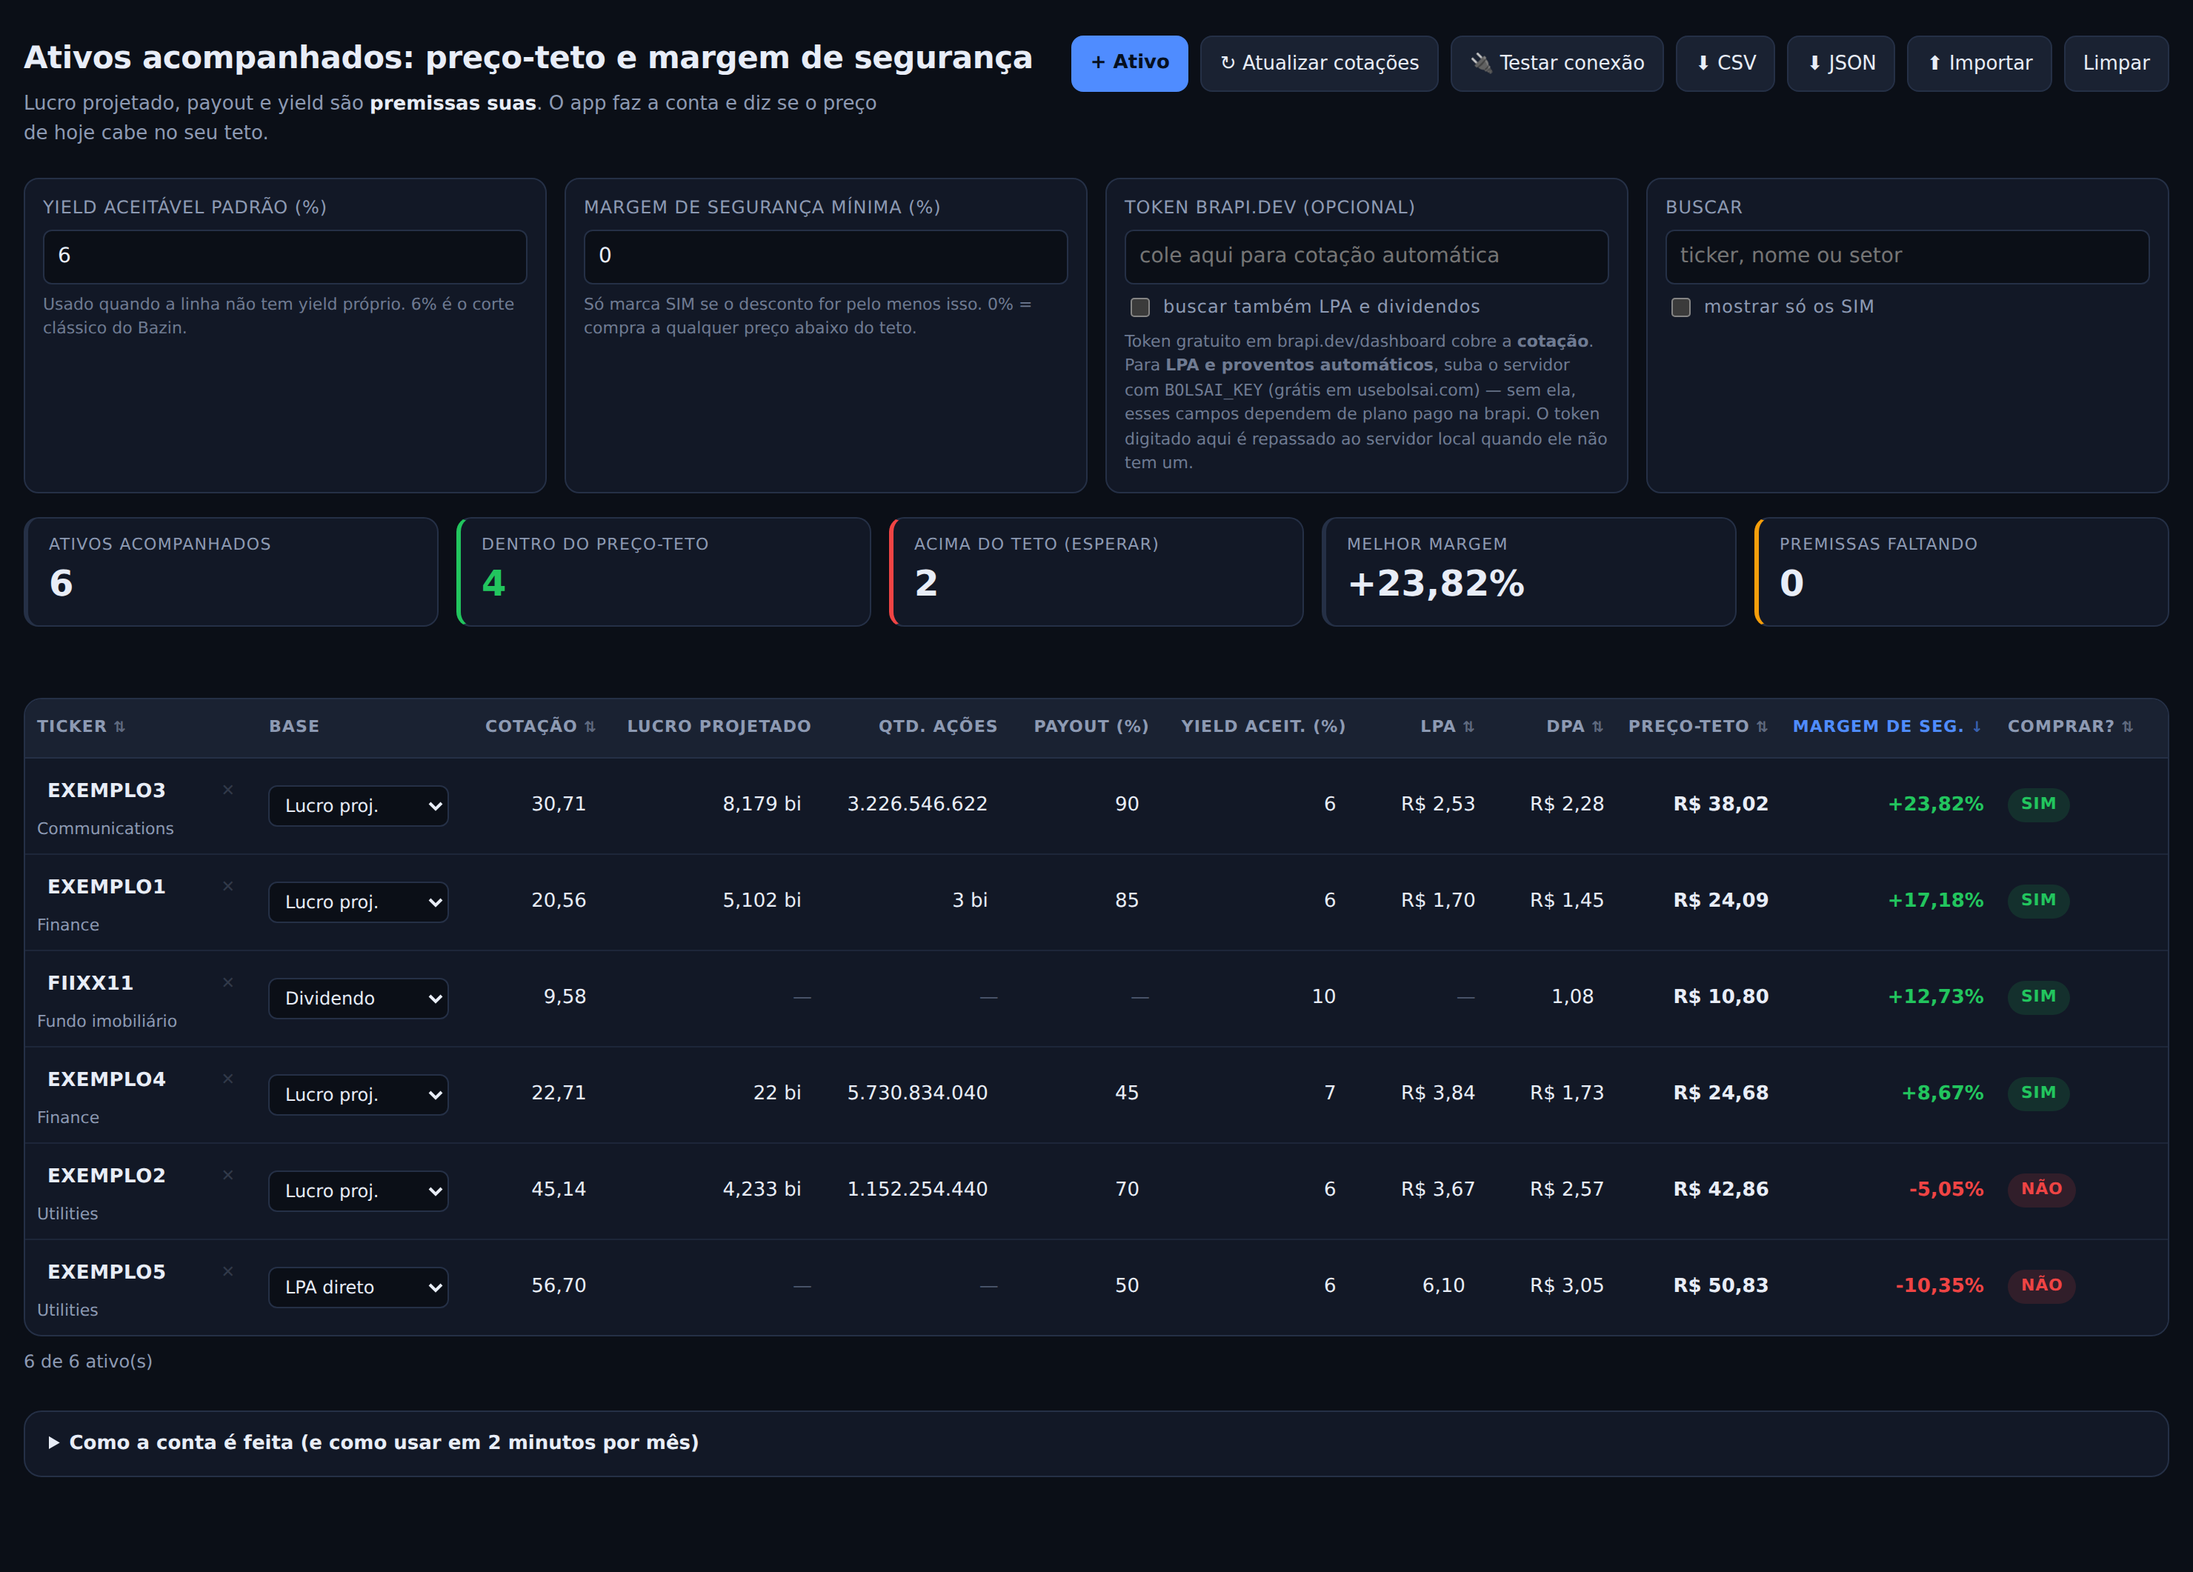
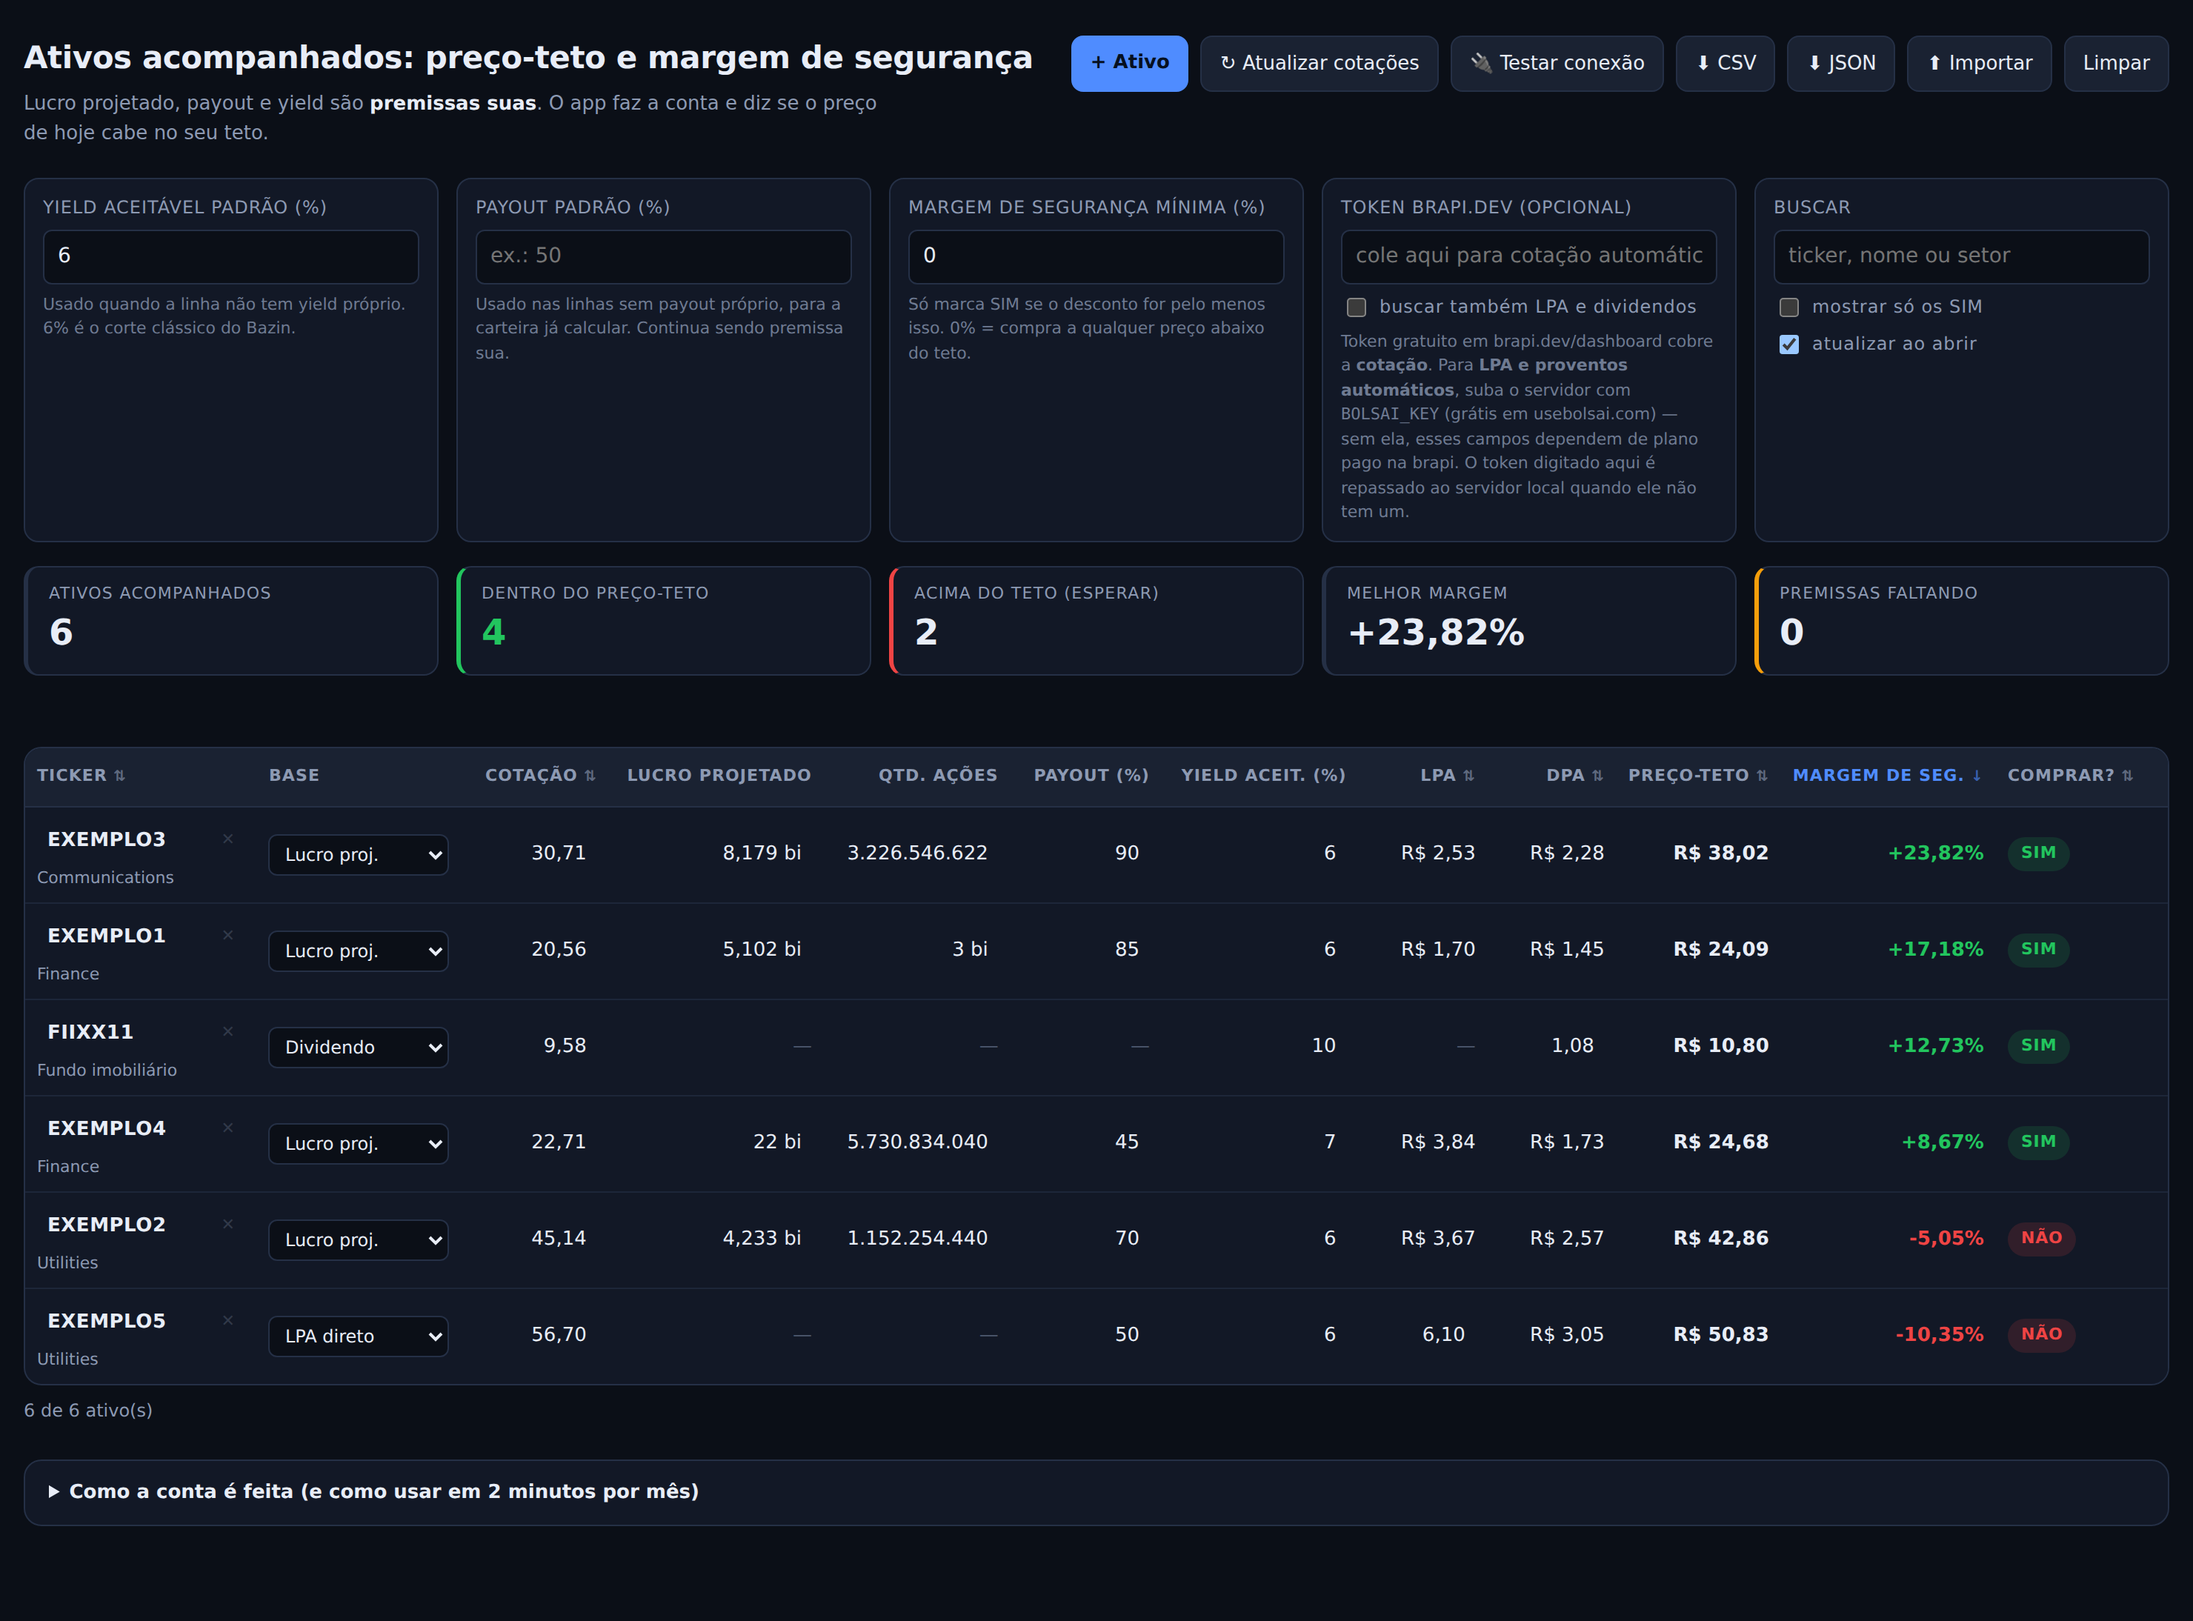
Atualiza ao abrir e fecha a conta com payout padrão
Abrir a página já dispara a busca de cotações quando há servidor local ou token,
com caixa "atualizar ao abrir" para desligar. A página publicada não tenta, por
não ter nem servidor nem token.

O campo "payout padrão" passa a valer nas linhas sem payout próprio, como já
acontecia com o yield aceitável. Com preço e LPA vindos da API, uma única
premissa fecha a conta de toda a carteira.

O diagnóstico do usuário mostrou que a brapi devolve earningsPerShare na resposta
comum, sem módulo pago — o app já lia esse campo, mas o painel não, e por isso
parecia que o LPA só vinha pelo servidor. Agora:

- a sonda "LPA na raiz (sem módulos)" testa isso num ticker da carteira e a
  conclusão avisa quando o LPA vem de graça (dispensando bolsai), com a mesma
  ressalva de ticker liberado que vale para os fundamentos
- o painel lê LPA de defaultKeyStatistics OU da raiz, igual a normalizar()
- a sonda v2 aceita outra chave de coleção (a rota respondia e parecia vazia) e
  Number(null) não vira mais "LPA 0,00"
- 404 numa sonda v2 é reportado como rota inexistente, não ticker inválido

Testes: portas efêmeras e verificação de saúde em test/ajuda.mjs — porta fixa
conflitava com processo de execução anterior e o teste seguia contra servidor
morto, falhando longe da causa.

Claude-Session: https://claude.ai/code/session_017AhskhMrFGTcoZYypaDFch

diff --git a/assets/quotes.js b/assets/quotes.js
@@ -146,12 +146,23 @@
             const motivos = Object.values(corpo?.erros || {});
             if (!info && motivos.length) etapa.detalhe = motivos[0];
           } else {
-            const primeiro = corpo && Array.isArray(corpo.results) ? corpo.results[0] : null;
-            etapa.preco = primeiro ? Number(primeiro.regularMarketPrice) || null : null;
-            etapa.lpa = primeiro?.defaultKeyStatistics?.trailingEps ?? null;
+            // A v1 devolve {results}, a v2 pode usar outra chave: pega o primeiro array.
+            const lista = Array.isArray(corpo?.results) ? corpo.results
+              : Array.isArray(corpo) ? corpo
+              : Object.values(corpo || {}).find(Array.isArray) || [];
+            const primeiro = lista[0] || null;
+            etapa.preco = primeiro ? Number(primeiro.regularMarketPrice ?? primeiro.close ?? primeiro.price) || null : null;
+            // Mesma leitura de normalizar(): earningsPerShare vem na raiz, sem módulo pago.
+            const bruto = primeiro?.defaultKeyStatistics?.trailingEps ?? primeiro?.earningsPerShare;
+            // Atenção: Number(null) é 0, o que mostraria "LPA 0,00" onde não há LPA.
+            const lpa = bruto === null || bruto === undefined ? null : Number(bruto);
+            etapa.lpa = Number.isFinite(lpa) ? lpa : null;
+            if (primeiro) etapa.campos = Object.keys(primeiro).length;
           }
         } else {
-          etapa.detalhe = mensagemDeErro(resposta.status);
+          etapa.detalhe = chave.startsWith('v2-') && resposta.status === 404
+            ? 'Essa rota não existe nessa versão da API.'
+            : mensagemDeErro(resposta.status);
         }
         etapas.push(etapa);
       } catch (erro) {
@@ -195,10 +206,16 @@
       );
       etapas[etapas.length - 1].tickerLivre = LIVRES.includes(ticker);
 
+      // A v1 devolve earningsPerShare na raiz em alguns tickers, sem módulo pago:
+      // se vier para um ticker seu, o LPA é automático sem bolsai e sem plano pago.
+      await executar(`LPA na raiz (sem módulos) em ${ticker}`, 'lpa-raiz', `${BASE}${ticker}?token=${seguro}`);
+      etapas[etapas.length - 1].tickerLivre = LIVRES.includes(ticker);
+
       // Sondagem da API v2: se ela servir fundamentos no seu plano, o app pode migrar.
       const v2 = paraV2(base);
       await executar(`v2: cotação de ${ticker}`, 'v2-quote', `${v2}/quote?symbols=${ticker}&token=${seguro}`);
       await executar(`v2: fundamentos de ${ticker}`, 'v2-fundamentos', `${v2}/fundamentals?symbols=${ticker}&token=${seguro}`);
+      await executar(`v2: perfil de ${ticker}`, 'v2-profile', `${v2}/profile?symbols=${ticker}&token=${seguro}`);
     }
     return etapas;
   }
@@ -255,6 +272,15 @@
       const via = url?.ok ? 'na URL' : 'no header Authorization';
       const fundamentos = achar('fundamentos');
       const v2Fund = achar('v2-fundamentos');
+      const raiz = achar('lpa-raiz');
+      // Em PETR4/MGLU3/VALE3/ITUB4 tudo é liberado: só vale como prova fora deles.
+      if (raiz?.ok && raiz.lpa !== null && !raiz.tickerLivre) {
+        const emQual = raiz.rotulo?.split(' em ')[1] || 'seu ticker';
+        return `Rede e token ok (token aceito ${via}). E a melhor notícia: a brapi devolveu o LPA de ${emQual} na resposta comum (LPA ${raiz.lpa}), sem módulo pago — o app preenche o LPA sozinho, sem bolsai e sem plano pago.`;
+      }
+      if (raiz?.ok && raiz.lpa !== null && raiz.tickerLivre) {
+        return `Rede e token ok (token aceito ${via}). O LPA veio na resposta comum, mas só em ${raiz.rotulo?.split(' em ')[1] || 'PETR4'}, que a brapi libera de graça — acrescente um ticker seu à lista e teste de novo para saber se vale para os demais.`;
+      }
       // A v2 pode servir no plano em que a v1 recusa: essa informação vem primeiro.
       if (fundamentos && !fundamentos.ok && v2Fund?.ok) {
         return `Rede e token ok (token aceito ${via}). Os fundamentos da API v1 foram recusados (HTTP ${fundamentos.status}), mas a rota v2 respondeu — vale migrar o app para /api/v2/stocks/fundamentals. Me mande esta linha do diagnóstico.`;

diff --git a/assets/app.js b/assets/app.js
@@ -142,7 +142,7 @@
     const qtd = modo === 'lucro' ? inputCelula(ativo, 'quantidadeAcoes', 'placeholder="ex.: 3 bi"') : vazio;
     const payout = modo === 'dividendo'
       ? `<span data-saida="payoutImplicito">${m.payoutImplicito !== null ? `${fmt2.format(m.payoutImplicito)}%` : vazio}</span>`
-      : inputCelula(ativo, 'payout', 'placeholder="ex.: 70"');
+      : inputCelula(ativo, 'payout', `placeholder="${escapar(parseNumero(estado.config.payoutPadrao) ?? 'ex.: 70')}"`);
     const lpa = modo === 'lpa'
       ? inputCelula(ativo, 'lpaInformado', 'placeholder="ex.: 3,67"')
       : `<span data-saida="lpa">${fmtMoeda(m.lpa)}</span>`;
@@ -467,11 +467,13 @@
 
   function sincronizarConfig() {
     el('#yield-padrao').value = estado.config.yieldPadrao ?? '';
+    el('#payout-padrao').value = estado.config.payoutPadrao ?? '';
     el('#margem-minima').value = estado.config.margemMinima ?? '';
     el('#token').value = estado.config.token ?? '';
     el('#busca').value = estado.config.busca ?? '';
     el('#somente-comprar').checked = !!estado.config.somenteComprar;
     el('#fundamentos').checked = !!estado.config.fundamentos;
+    el('#auto-atualizar').checked = estado.config.autoAtualizar !== false;
   }
 
   function ligarEventos() {
@@ -547,9 +549,14 @@
       status('Carteira restaurada para a lista inicial.', '');
     });
 
-    ['yield-padrao', 'margem-minima'].forEach((id) => {
+    const camposDeConfig = {
+      'yield-padrao': 'yieldPadrao',
+      'payout-padrao': 'payoutPadrao',
+      'margem-minima': 'margemMinima',
+    };
+    Object.entries(camposDeConfig).forEach(([id, chave]) => {
       el(`#${id}`).addEventListener('input', (evento) => {
-        estado.config[id === 'yield-padrao' ? 'yieldPadrao' : 'margemMinima'] = evento.target.value;
+        estado.config[chave] = evento.target.value;
         render();
       });
     });
@@ -569,9 +576,28 @@
       estado.config.fundamentos = evento.target.checked;
       salvar();
     });
+    el('#auto-atualizar').addEventListener('change', (evento) => {
+      estado.config.autoAtualizar = evento.target.checked;
+      salvar();
+    });
+  }
+
+  /**
+   * Atualiza sozinho ao abrir, para a tabela já aparecer com preço de hoje.
+   * Só roda quando há por onde consultar (servidor local ou token) e quando há
+   * ticker válido — assim a página publicada não tenta e falha a cada abertura.
+   */
+  async function atualizarAoAbrir() {
+    if (estado.config.autoAtualizar === false) return;
+    const temTicker = estado.ativos.some((a) => TICKER_B3.test(String(a.ticker || '').trim().toUpperCase()));
+    if (!temTicker) return;
+    const local = await servidor();
+    if (!local.disponivel && !String(estado.config.token || '').trim()) return;
+    await atualizarCotacoes();
   }
 
   sincronizarConfig();
   ligarEventos();
   render();
+  atualizarAoAbrir();
 })();

diff --git a/assets/calc.js b/assets/calc.js
@@ -78,11 +78,12 @@
   /**
    * Avalia um ativo e devolve as métricas derivadas.
    * @param {object} ativo   Premissas do ativo (ver seed.js para o formato).
-   * @param {object} config  { yieldPadrao, margemMinima } em pontos percentuais.
+   * @param {object} config  { yieldPadrao, payoutPadrao, margemMinima } em pontos percentuais.
    */
   function avaliarAtivo(ativo, config) {
     const cfg = config || {};
     const yieldPadrao = parseNumero(cfg.yieldPadrao);
+    const payoutPadrao = parseNumero(cfg.payoutPadrao);
     const margemMinima = parseNumero(cfg.margemMinima) || 0;
 
     const cotacao = positivo(parseNumero(ativo.cotacao));
@@ -91,7 +92,9 @@
 
     const lucro = parseNumero(ativo.lucroProjetado);
     const quantidade = positivo(parseNumero(ativo.quantidadeAcoes));
-    const payout = parseNumero(ativo.payout);
+    // Payout da linha, ou o padrão da carteira: é premissa sua nos dois casos.
+    const payoutDaLinha = parseNumero(ativo.payout);
+    const payout = payoutDaLinha !== null ? payoutDaLinha : payoutPadrao;
 
     let lpa = modo === 'lpa'
       ? parseNumero(ativo.lpaInformado)
@@ -144,6 +147,8 @@
       margem,
       precoAlvo,
       yieldAtual,
+      payout,
+      payoutDoPadrao: payoutDaLinha === null && payout !== null,
       payoutImplicito,
       veredito,
       faltando,

diff --git a/index.html b/index.html
@@ -31,6 +31,10 @@
     <input id="yield-padrao" inputmode="decimal" placeholder="6">
     <small>Usado quando a linha não tem yield próprio. 6% é o corte clássico do Bazin.</small>
   </label>
+  <label>Payout padrão (%)
+    <input id="payout-padrao" inputmode="decimal" placeholder="ex.: 50">
+    <small>Usado nas linhas sem payout próprio, para a carteira já calcular. Continua sendo premissa sua.</small>
+  </label>
   <label>Margem de segurança mínima (%)
     <input id="margem-minima" inputmode="decimal" placeholder="0">
     <small>Só marca SIM se o desconto for pelo menos isso. 0% = compra a qualquer preço abaixo do teto.</small>
@@ -43,6 +47,7 @@
   <label class="busca">Buscar
     <input id="busca" placeholder="ticker, nome ou setor">
     <span class="check"><input type="checkbox" id="somente-comprar"> mostrar só os SIM</span>
+    <span class="check"><input type="checkbox" id="auto-atualizar"> atualizar ao abrir</span>
   </label>
 </section>
 

diff --git a/assets/seed.js b/assets/seed.js
@@ -10,6 +10,8 @@
     token: '',
     // Fundamentos (LPA e dividendos) são de plano pago na brapi; desligado por padrão.
     fundamentos: false,
+    // Busca cotações sozinho ao abrir, quando há servidor local ou token.
+    autoAtualizar: true,
     ordenarPor: 'margem',
     ordemDecrescente: true,
     somenteComprar: false,

diff --git a/README.md b/README.md
@@ -45,15 +45,27 @@ Enquanto faltar premissa, o selo da última coluna diz **qual** campo preencher
 mostra a versão servida (`código <sha> · <branch>`), que é a forma rápida de
 confirmar se o `git pull` pegou.
 
+### Abrir já é atualizar
+
+Com o app servido por `npm start` (ou com token no campo), abrir a página dispara a
+atualização sozinha — a tabela aparece com o preço de hoje, sem clique. A caixa
+**atualizar ao abrir** desliga esse comportamento, e a página publicada nunca tenta
+(sem servidor e sem token, não há por onde consultar).
+
+Para a carteira fechar a conta de uma vez, use o **payout padrão**: ele vale nas
+linhas sem payout próprio, do mesmo jeito que o yield aceitável padrão. Preço e LPA
+vêm da API, o payout vem desse campo, e todas as linhas passam a ter preço-teto e
+veredito. Continua sendo premissa sua — só deixou de ser uma premissa por linha.
+
 ### O que a atualização automática traz — e o que não traz
 
 | Campo | Vem sozinho? |
 | --- | --- |
 | Cotação | ✅ sempre |
 | Nome e setor | ✅ sempre |
-| LPA | ✅ com `BOLSAI_KEY` e a caixa marcada (senão exige plano pago na brapi) |
+| LPA | ✅ quando a brapi devolve `earningsPerShare` na resposta comum (acontece sem plano pago); senão, com `BOLSAI_KEY` |
 | DPA de 12 meses | ✅ mesma condição |
-| Payout | ❌ nunca — é premissa sua |
+| Payout | ❌ nunca vem de API — mas o **payout padrão** preenche todas as linhas de uma vez |
 | Lucro projetado e nº de ações | ❌ nunca — premissa sua |
 
 Ou seja: depois de atualizar as cotações, as linhas continuam em `falta payout`
@@ -237,8 +249,8 @@ Digite como for mais natural — o app entende formato brasileiro e atalhos de e
 ## Testes
 
 ```bash
-npm test          # 94 testes de cálculo, cotação, bolsai, servidor e CLI (node puro)
-npm run test:ui   # 77 verificações de interface com Chromium (precisa de playwright-core)
+npm test          # 100 testes de cálculo, cotação, bolsai, servidor e CLI (node puro)
+npm run test:ui   # 86 verificações de interface com Chromium (precisa de playwright-core)
 ```
 
 Os testes de cálculo conferem as linhas da planilha que serviu de referência,
